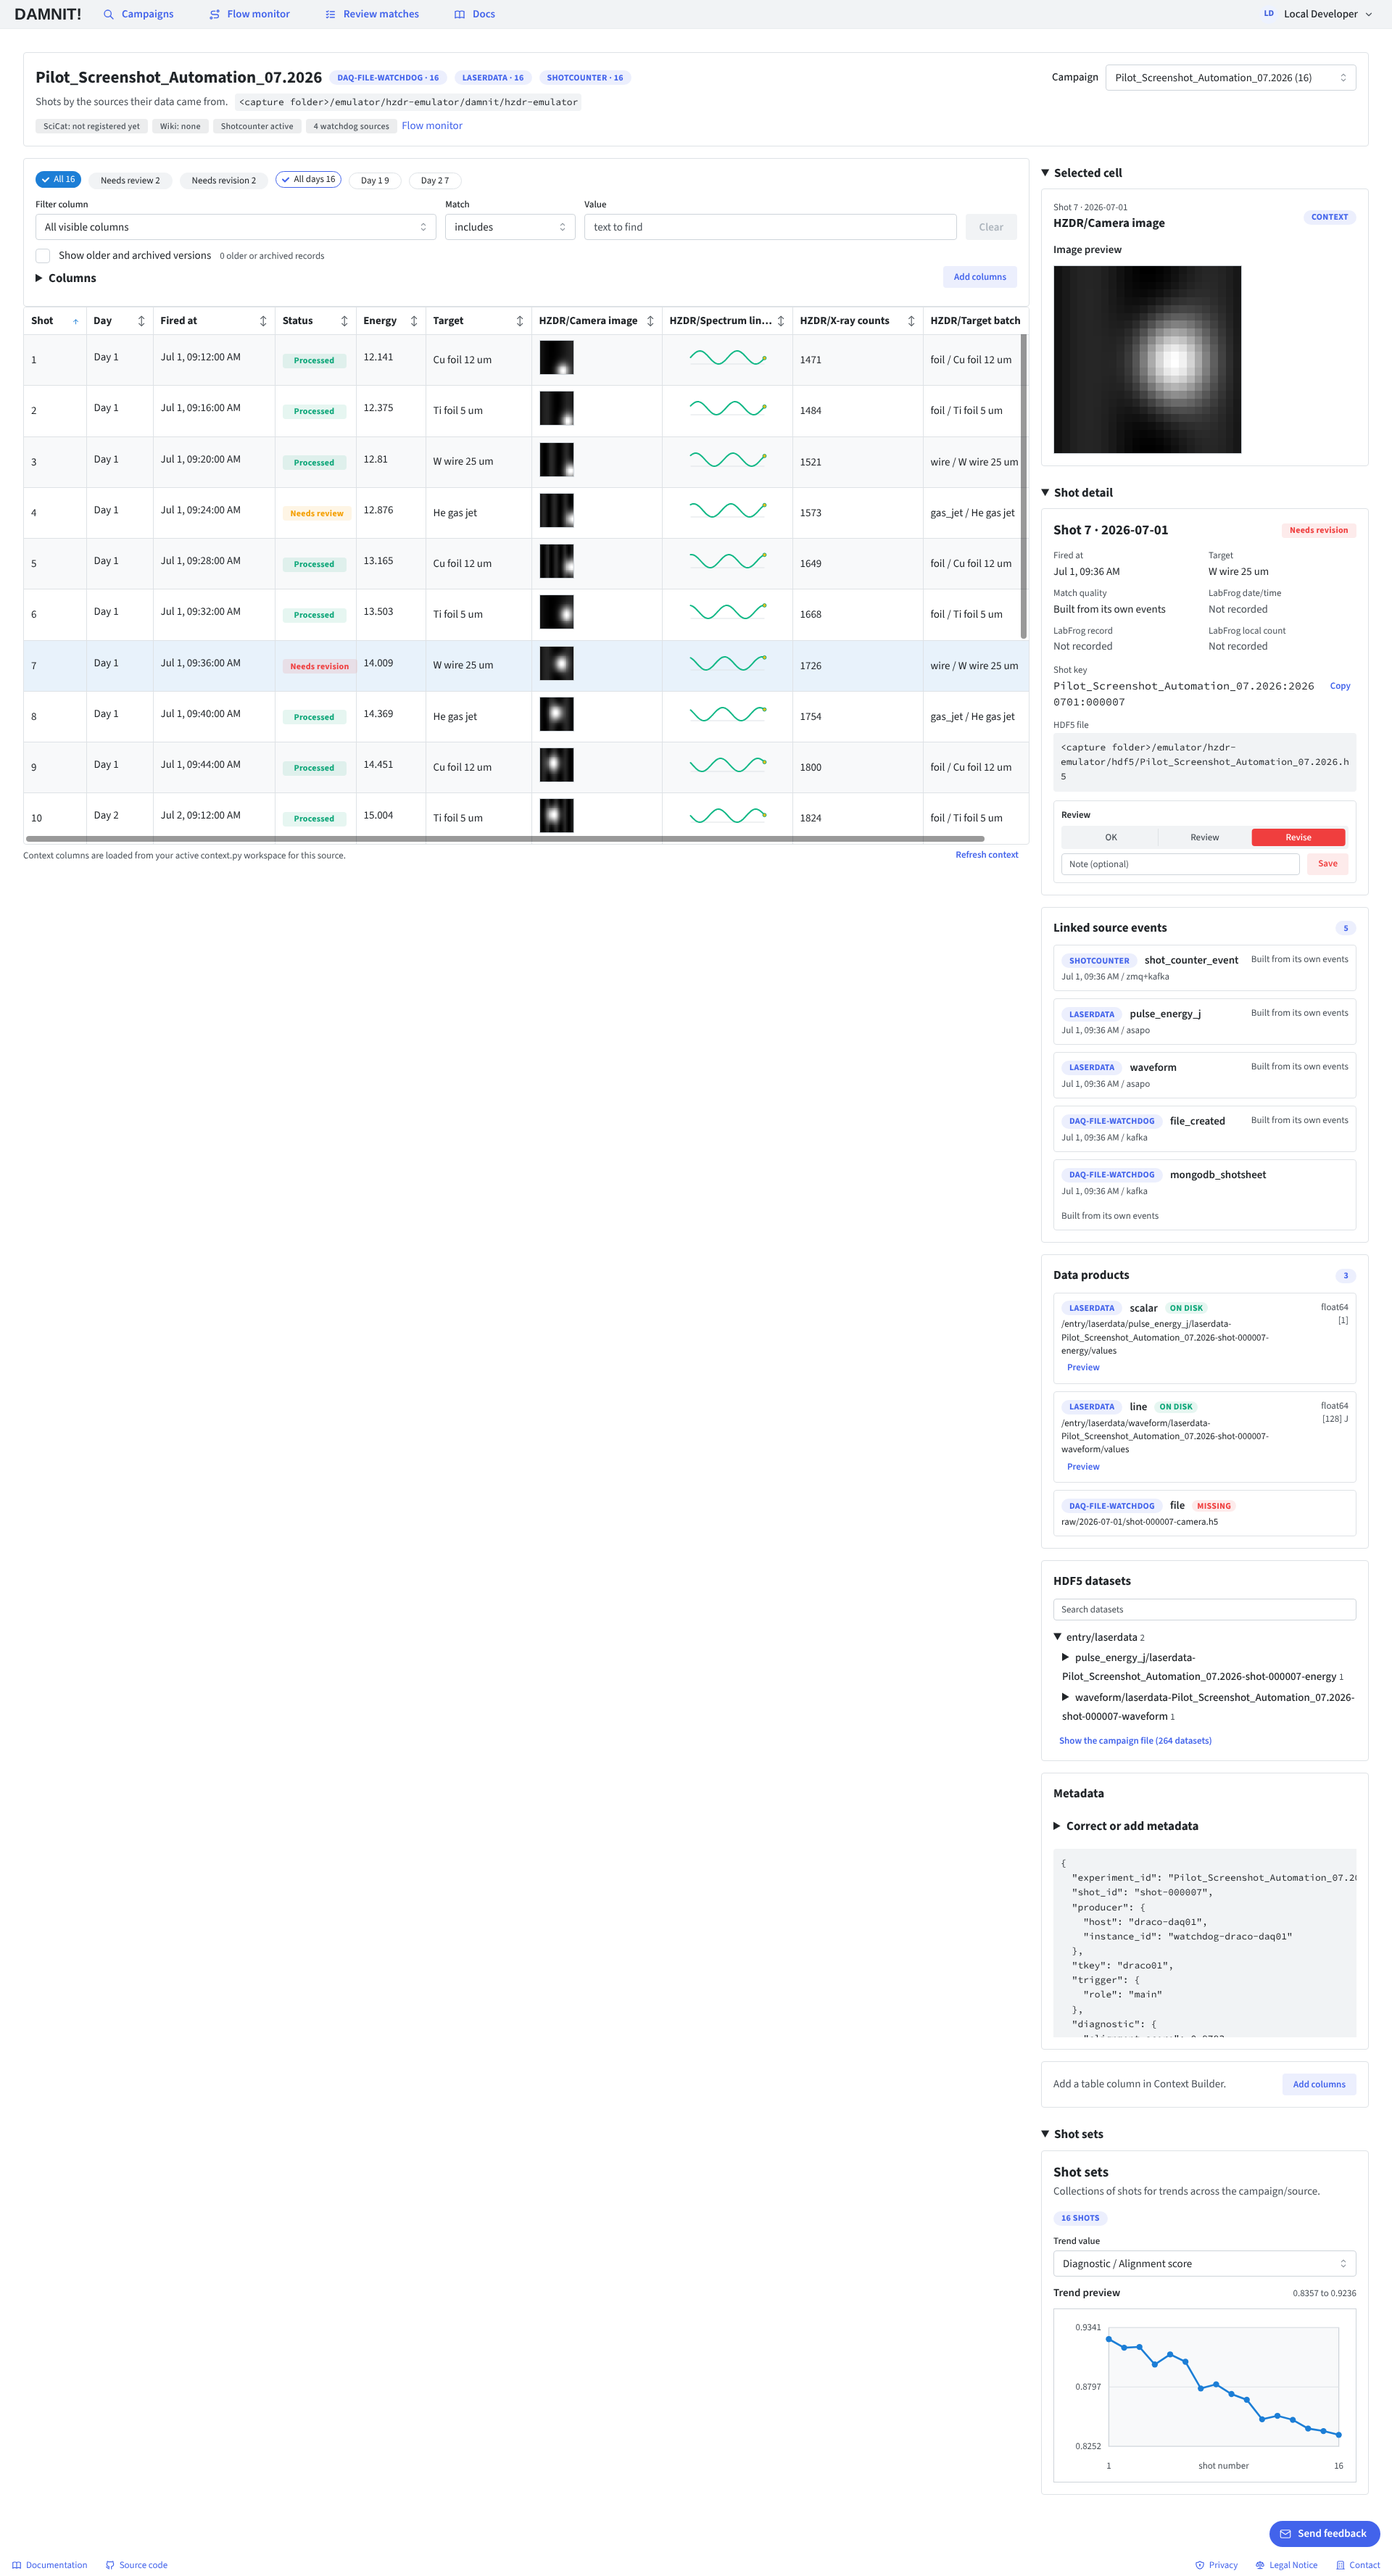
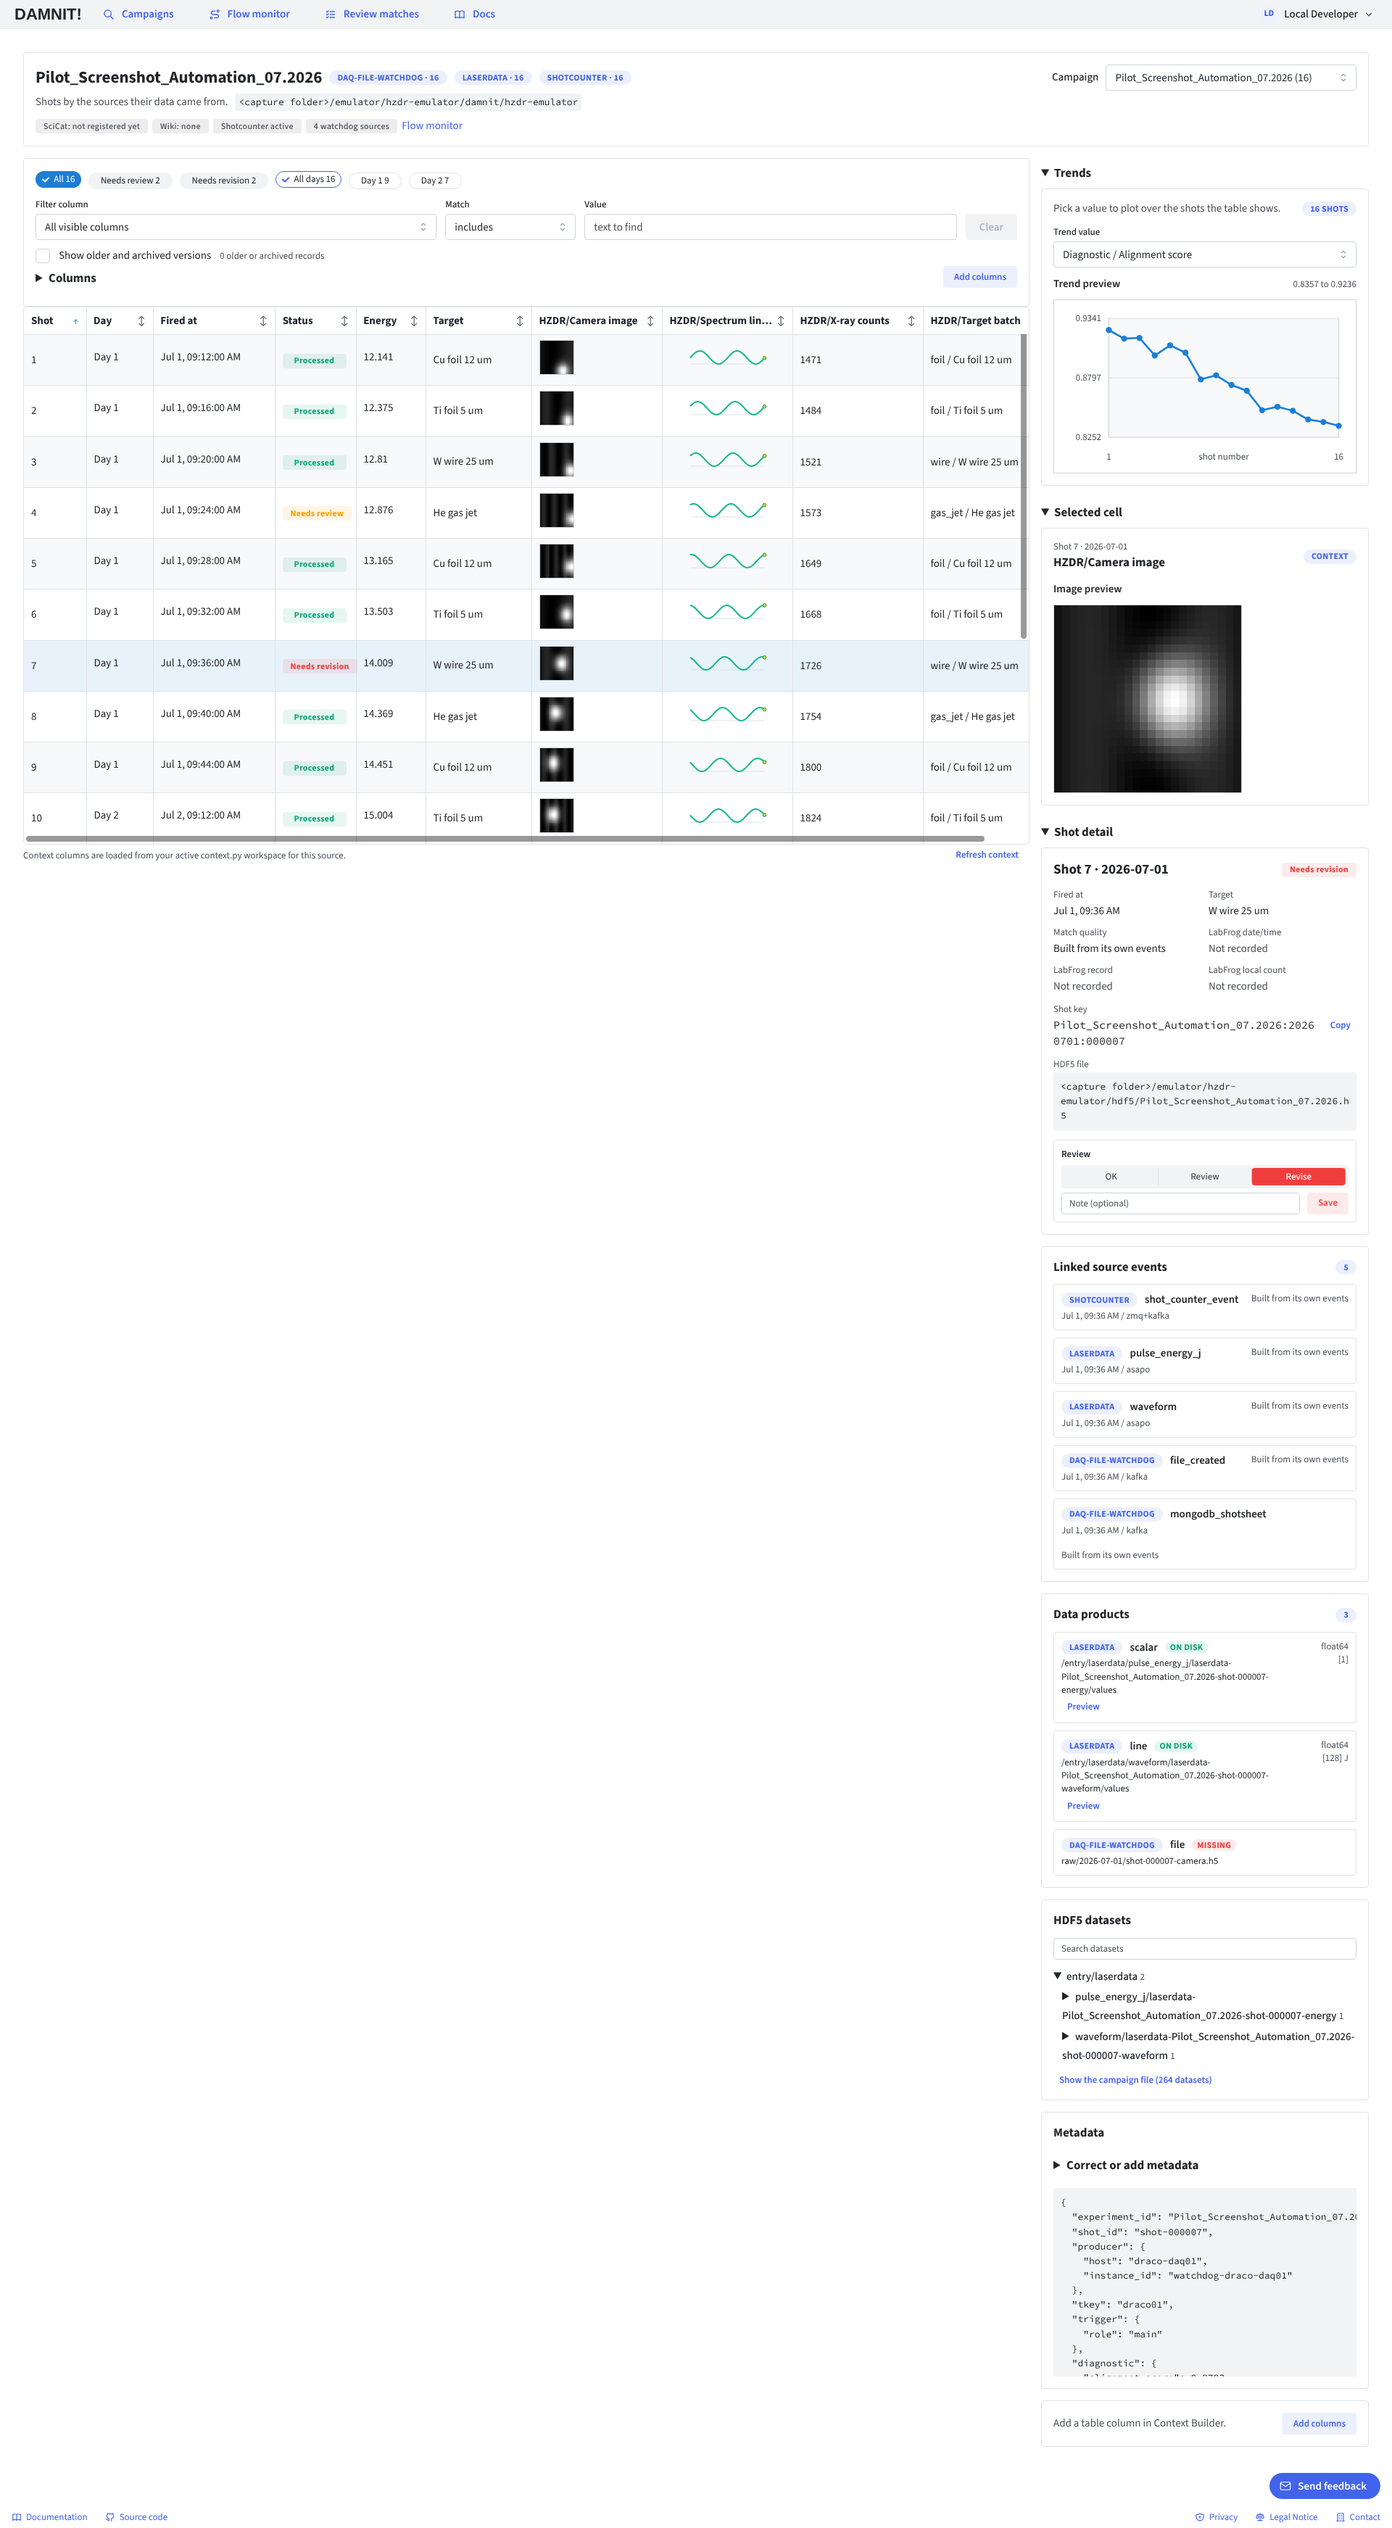
Shot table: Trends at the top of the side panel, following the table's filters
The trend picker was the last panel, as "Shot sets", below the long Shot
detail. It is now the first, "Trends", above Selected cell and Shot detail,
and plots the shots the table shows, so the quick and text filters apply.

Claude-Session: https://claude.ai/code/session_014Jn2FUYm5jdkuJ6M2VJL8i

diff --git a/frontend/apps/app/src/hzdr/pages/ShotPage.tsx b/frontend/apps/app/src/hzdr/pages/ShotPage.tsx
@@ -1228,6 +1228,11 @@ export function HZDRShotPage() {
 
               <Grid.Col span={{ base: 12, lg: 3 }}>
                 <Stack gap="md">
+                  {/* Trends first: pick a value and see it over the shots the
+                      table shows (its filters apply). */}
+                  <DetailsSection title="Trends" open>
+                    <HZDRShotSetsPanel shots={visibleShots} />
+                  </DetailsSection>
                   <DetailsSection title="Selected cell" open>
                     <SelectedCellPanel
                       cell={selectedCell}
@@ -1243,9 +1248,6 @@ export function HZDRShotPage() {
                       onUpdateStatus={updateShotStatus}
                       onCorrectMetadata={updateShotMetadata}
                     />
-                  </DetailsSection>
-                  <DetailsSection title="Shot sets" open>
-                    <HZDRShotSetsPanel shots={tableShots} />
                   </DetailsSection>
                 </Stack>
               </Grid.Col>

diff --git a/frontend/apps/app/src/hzdr/pages/__tests__/ShotPage.test.tsx b/frontend/apps/app/src/hzdr/pages/__tests__/ShotPage.test.tsx
@@ -269,6 +269,20 @@ describe('shot page quick filters and keyboard', () => {
     expect(screen.getByText('No shots match the filter.')).toBeInTheDocument()
   })
 
+  it('puts Trends at the top of the side panel, following the filters', async () => {
+    const user = userEvent.setup()
+    await renderPage()
+    const summaries = screen
+      .getAllByText(/^(Trends|Selected cell|Shot detail)$/)
+      .map((node) => node.textContent)
+    expect(summaries).toEqual(['Trends', 'Selected cell', 'Shot detail'])
+    expect(screen.queryByText('Shot sets')).not.toBeInTheDocument()
+    // the panel (stubbed here) gets the shots the table shows
+    expect(screen.getByText('4 trend records')).toBeInTheDocument()
+    await user.click(screen.getByRole('radio', { name: 'Needs review 2' }))
+    expect(screen.getByText('2 trend records')).toBeInTheDocument()
+  })
+
   it('moves the selection with Up and Down, not inside inputs', async () => {
     const user = userEvent.setup()
     const table = await renderPage()

diff --git a/frontend/apps/app/src/hzdr/components/ShotTable.tsx b/frontend/apps/app/src/hzdr/components/ShotTable.tsx
@@ -15,7 +15,6 @@ import {
   Text,
   Textarea,
   TextInput,
-  Title,
 } from '@mantine/core'
 
 import type { HZDRShot, HZDRSelectedCell, HZDRSortState } from '../types'
@@ -320,12 +319,9 @@ export function HZDRShotSetsPanel({ shots }: { shots: HZDRShot[] }) {
     <Card withBorder radius={4} p="md">
       <Stack gap="sm">
         <Group justify="space-between">
-          <Stack gap={2}>
-            <Title order={4}>Shot sets</Title>
-            <Text size="sm" c="dimmed">
-              Collections of shots for trends across the campaign/source.
-            </Text>
-          </Stack>
+          <Text size="sm" c="dimmed">
+            Pick a value to plot over the shots the table shows.
+          </Text>
           <Badge variant="light">{shots.length} shots</Badge>
         </Group>
         <Select

diff --git a/frontend/apps/app/src/hzdr/pages/DocsPage.tsx b/frontend/apps/app/src/hzdr/pages/DocsPage.tsx
@@ -303,6 +303,10 @@ export function HZDRDocsPage() {
                     <b>arrow keys</b> move to the shot above or below.
                   </List.Item>
                   <List.Item>
+                    <b>Trends</b>, at the top of the side panel: pick a value to
+                    plot it over the shots the table shows (the filters apply).
+                  </List.Item>
+                  <List.Item>
                     <b>Click a cell</b> for its value; a number opens a trend
                     over the visible shots, a plot cell its full plot.
                   </List.Item>

diff --git a/hzdr/docs/screenshots.md b/hzdr/docs/screenshots.md
@@ -61,10 +61,11 @@ A campaign page (`/source/{source_key}`): DAMNIT's per-shot table with
 status badges, campaign/context columns and inline image and trend previews.
 Above it, one line of status chips (SciCat, wiki, producers, Flow monitor),
 quick filters for review status and day, and **Add columns** beside Columns.
-The capture clicks a camera-image cell of shot 7, so the side panel shows the
-full preview, then Shot detail (open by default: facts, the review control,
-events, data products and only that shot's datasets as a tree), then Shot
-sets with a trend.
+The side panel opens with **Trends** (pick a value; it plots the shots the
+table shows). The capture clicks a camera-image cell of shot 7, so below it
+Selected cell shows the full preview, then Shot detail (open by default:
+facts, the review control, events, data products and only that shot's
+datasets as a tree).
 
 ![Shot table](screenshots/shot-table.png)
 

diff --git a/hzdr/CHANGELOG.md b/hzdr/CHANGELOG.md
@@ -6,6 +6,12 @@ behaviour; the merge PR has the details.
 
 ## 2026-11-21
 
+### Shot table: Trends at the top of the side panel
+- The trend (pick a value, see it over the shots) is now the first panel
+  beside the table, named **Trends**, above Selected cell and Shot detail;
+  it was at the bottom as "Shot sets", below the long Shot detail. It plots
+  the shots the table shows, so the quick filters and the text filter apply.
+
 ### UI cleanup across every page (from the UI review)
 - **Header:** "Inspect sources" is now **Campaigns**. Below tablet width the
   tabs fold into a menu button, so every page is reachable on a phone;
